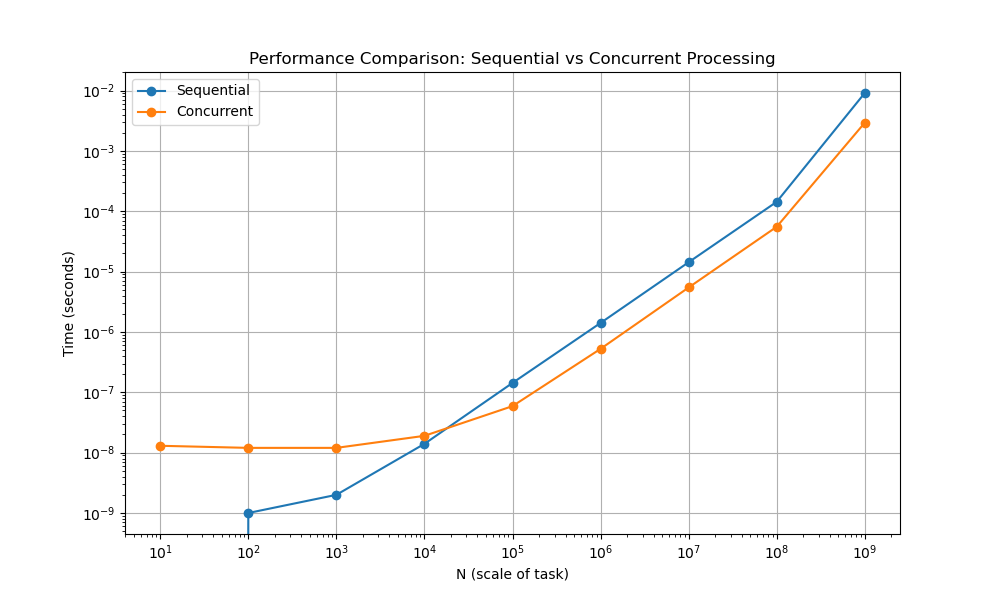
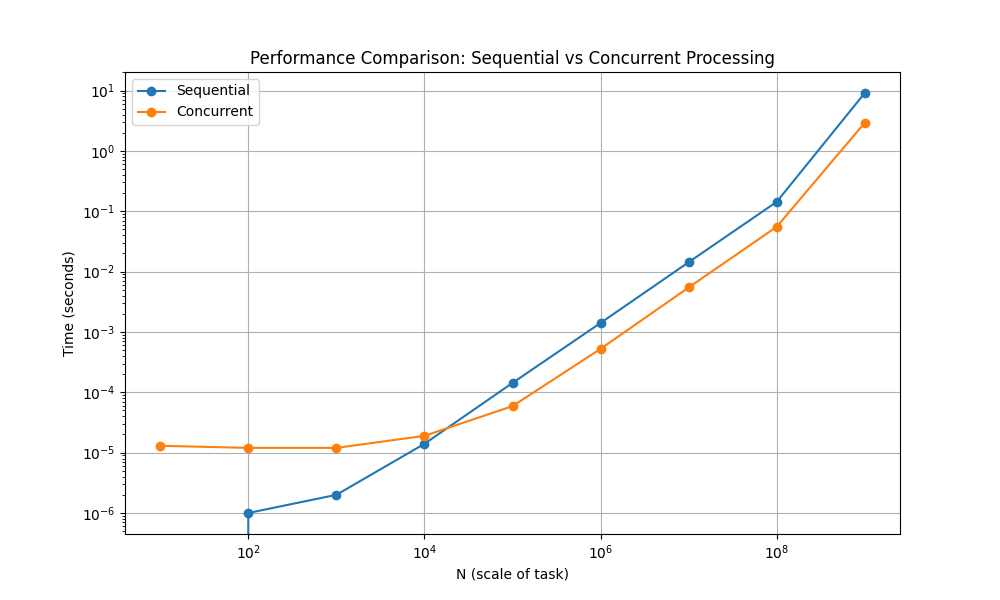
fix scaling

diff --git a/Exercises/07_Multiprocessing/Solutions/plotter.py b/Exercises/07_Multiprocessing/Solutions/plotter.py
@@ -24,8 +24,8 @@ sequential_times = data['sequential']  # Assuming times are in milliseconds
 concurrent_times = data['concurrent']  # Assuming times are in milliseconds
 
 # Convert times to seconds for plotting
-sequential_times_s = [parse_time(t) / 1000 for t in sequential_times]
-concurrent_times_s = [parse_time(t) / 1000 for t in concurrent_times]
+sequential_times_s = [parse_time(t) for t in sequential_times]
+concurrent_times_s = [parse_time(t) for t in concurrent_times]
 
 # Plotting
 plt.figure(figsize=(10, 6))
